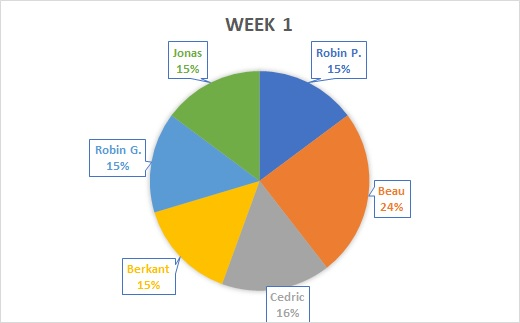
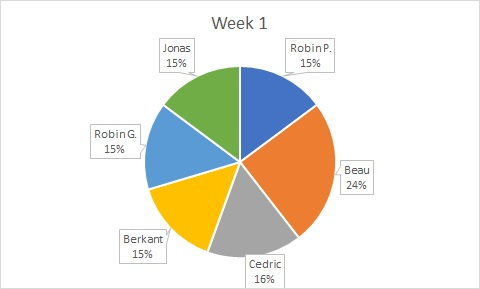
Afbeeldingn spent weekrapport aangepast+toegevoegd

diff --git a/Documentatie/Verslagen_Aalst/Weekrapport-3.md b/Documentatie/Verslagen_Aalst/Weekrapport-3.md
@@ -28,7 +28,7 @@ Afwezig omwille van organisatieverandering
 
 ### Estimate/Spent
 
-`TODO`
+![Spent](img/W3/Spent.jpg)
 
 ## Uittreksel timesheet
 
@@ -52,9 +52,9 @@ Afwezig omwille van organisatieverandering
 
 ## Planning volgende week
 
-`TODO`
  - (Berkant en Jonas) Lima1 verder werken
  - (Berkant en Jonas) Communicatie met alpha1
+
 
 ## Vragen voor de begeleiders
 

diff --git a/Documentatie/Verslagen_Aalst/Weekrapport-1.md b/Documentatie/Verslagen_Aalst/Weekrapport-1.md
@@ -22,7 +22,7 @@ Afwezig omwille van organisatieverandering
 
 ### Estimate/Spent
 
-`TODO`
+![Spent](img/W1/Spent.jpg)
 
 ## Uittreksel timesheet
 

diff --git a/Documentatie/Verslagen_Aalst/Weekrapport-2.md b/Documentatie/Verslagen_Aalst/Weekrapport-2.md
@@ -28,7 +28,7 @@ Afwezig omwille van organisatieverandering
 
 ### Estimate/Spent
 
-`TODO`
+![Spent](img/W2/Spent.jpg)
 
 ## Uittreksel timesheet
 
